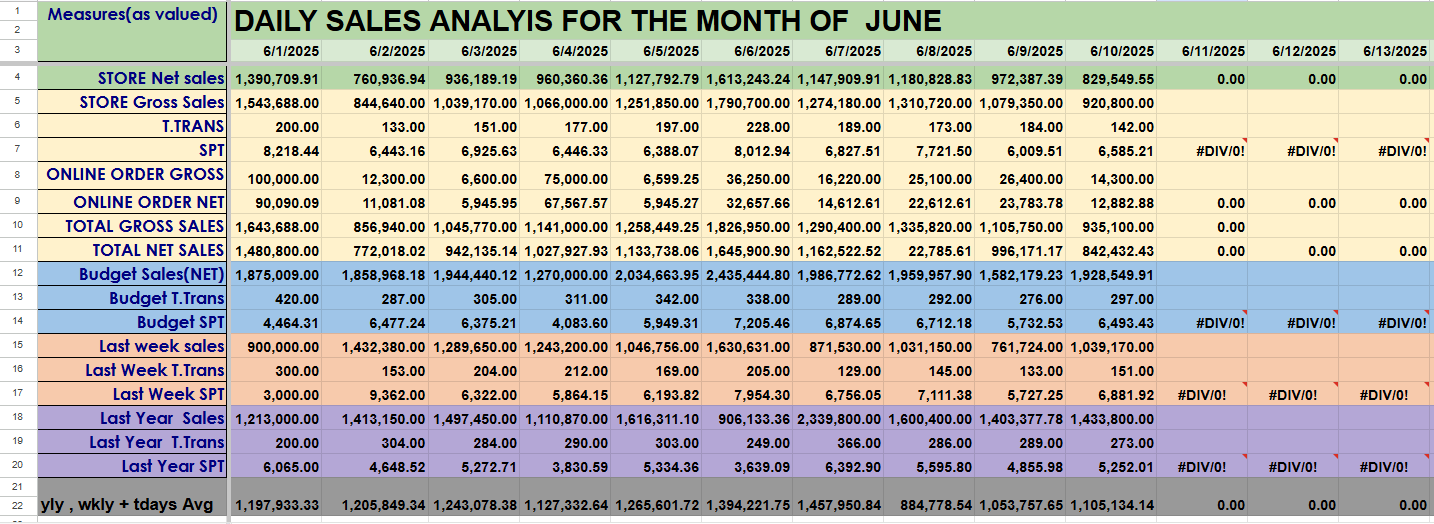
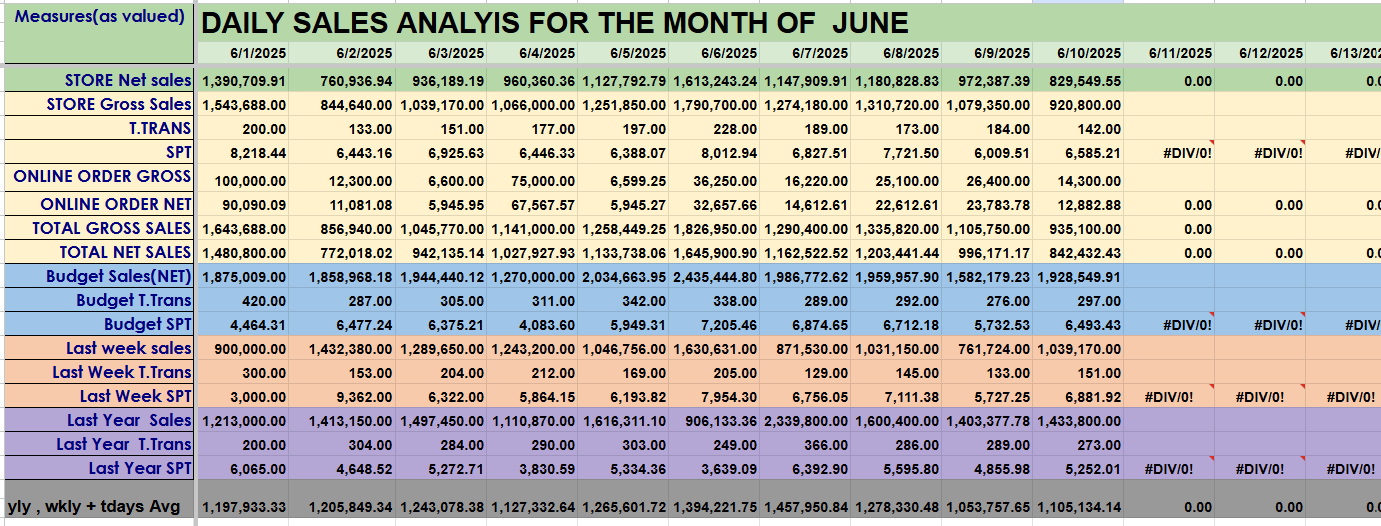
made recent changes

diff --git a/README.md b/README.md
@@ -30,7 +30,7 @@ Plain-language documentation of a simple sales analysis with linked data files a
 - 🌐 Online share of sales, promo lift, return rate
 
 Data quality note
-- ⚠ The CSV’s “TOTAL NET SALES” value for 2025-06-08 appears miscalculated (~22.8k vs ~1.20M expected = store net 1,180,828.83 + online 22,612.61). Please correct the source formula before reporting. 
+- ✅ June 8 total net is now corrected to ~1,203,441.44 (store net 1,180,828.83 + online 22,612.61). Charts and reporting should reflect ≈ 1.20M for 2025-06-08.
 
 ### What this includes
 - A CSV and an Excel workbook containing the raw/cleaned sales data

diff --git a/sales-Analysis/README.md b/sales-Analysis/README.md
@@ -30,7 +30,7 @@ Plain-language documentation of a simple sales analysis with linked data files a
 - 🌐 Online share of sales, promo lift, return rate
 
 Data quality note
-- ⚠ The CSV’s “TOTAL NET SALES” for 2025-06-08 is likely miscalculated (~22.8k vs ~1.20M expected = store net 1,180,828.83 + online 22,612.61). Please correct the formula upstream before reporting.
+- ✅ June 8 total net is now corrected to ~1,203,441.44 (store net 1,180,828.83 + online 22,612.61). Charts and reporting should reflect ≈ 1.20M for 2025-06-08.
 
 ---
 **Author**: Kachi Flavian  
